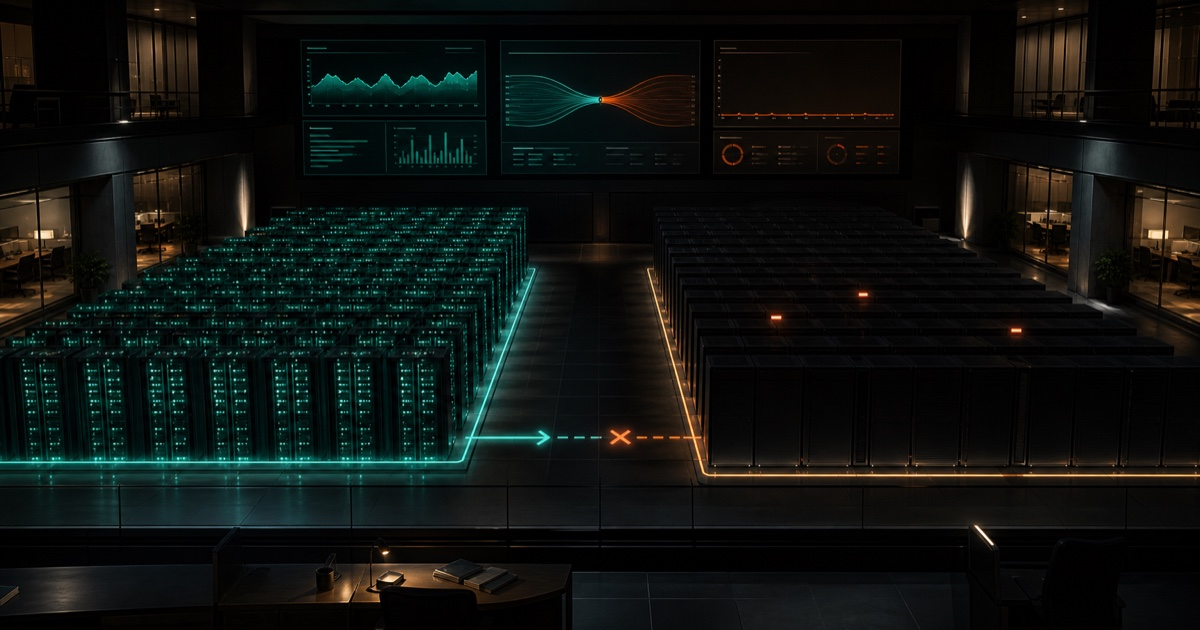
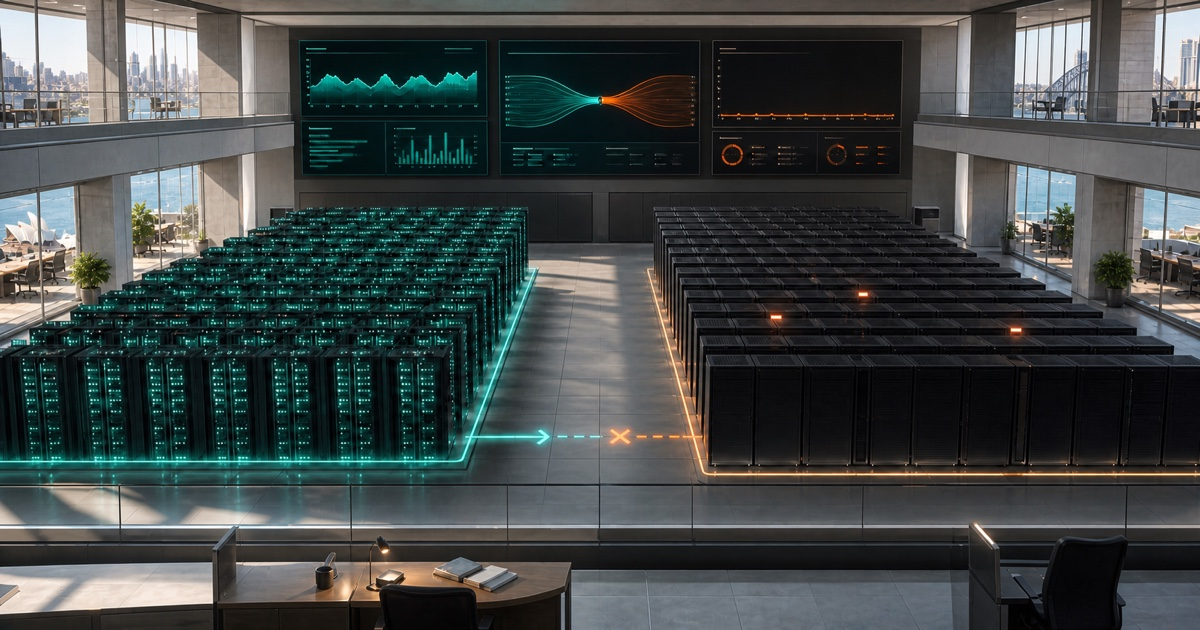
docs(blog): use Sydney time in OpenSearch story

diff --git a/src/articles/at-noon-in-sydney-ten-million-addresses-disappeared/index.md b/src/articles/at-noon-in-sydney-ten-million-addresses-disappeared/index.md
@@ -1,29 +1,29 @@
 ---
 date: '2026-07-16'
-title: 'At 2am UTC, ten million addresses disappeared'
+title: 'At noon in Sydney, ten million addresses disappeared'
 author: 'Tom Howard'
 tags: ['ai coding', 'claude code', 'opensearch', 'software delivery', 'risk management', 'zero outage']
 image: '/img/social/opensearch-upgrade-failed-cluster.jpg'
-imageAlt: 'Two parallel server clusters at night: the production cluster remains lit in teal while the candidate cluster is almost dark, with orange warning indicators.'
+imageAlt: 'Two parallel server clusters in daylight: the production cluster remains lit in teal while the candidate cluster is almost dark, with orange warning indicators.'
 ---
 
-At 2am UTC, the new OpenSearch cluster held about ten million Australian addresses. At the next CloudWatch reading, it held seven.
+At 11am in Sydney, the new OpenSearch cluster held about ten million Australian addresses. At noon, the next CloudWatch reading counted just seven addresses.
 
-At 03:00:59 UTC, the failed logins began. By the time the import was stopped, the audit log contained 184 of them. The cluster had lost almost all its data and stopped recognising the credentials that had loaded it.
+At 1:00:59pm, the failed logins began. By the time the import was stopped, the audit log contained 184 of them. The cluster had lost almost all its data and stopped recognising the credentials that had loaded it.
 
 Claude Code had been supervising the migration for more than a day. The new cluster was supposed to replace an old one running OpenSearch 1.3.20. It was not yet serving customers, so the production API continued answering searches as if nothing had happened.
 
 That was the first thing the migration got right.
 
-![Two parallel server clusters at night: the production cluster remains lit in teal while the candidate cluster is almost dark, with orange warning indicators.](/img/social/opensearch-upgrade-failed-cluster.jpg)
+![Two parallel server clusters in daylight: the production cluster remains lit in teal while the candidate cluster is almost dark, with orange warning indicators.](/img/social/opensearch-upgrade-failed-cluster.jpg)
 
 ## A cluster too old to leave alone
 
-Addressr searches Australia's Geocoded National Address File: about 16.9 million addresses, rebuilt from source and indexed into OpenSearch. Its production cluster worked, but it was still on OpenSearch 1.3.20, a version family already past upstream maintenance.
+Addressr searches Australia's Geocoded National Address File (G&#8209;NAF), a source dataset of about 16.9 million addresses indexed into OpenSearch. Its production cluster worked, but it was still on OpenSearch 1.3.20, a version family already past upstream maintenance.
 
 The destination was OpenSearch 3.5. Reaching it safely meant stopping at 2.19 first. Each step had to preserve search behaviour, keep the API available and leave a working path back.
 
-An in-place upgrade would have put the only production cluster on the operating table. The chosen design was blue/green. The old cluster would continue serving while a new one was provisioned beside it. Both versions would run in CI. The new cluster would be rebuilt from G-NAF, tested directly, fed copies of real searches and compared with production. Only then would the application switch over.
+An in-place upgrade would have put the only production cluster on the operating table. The chosen design was blue/green. The old cluster would continue serving while a new one was provisioned beside it. In CI, the automated test suite would run against both OpenSearch 1.3.20 and 2.19.5. The new cluster would be rebuilt from G&#8209;NAF, tested directly, fed copies of real searches and compared with production. Only then would the application switch over.
 
 The switch itself would be a configuration change. If it failed, the old cluster would still be warm.
 
@@ -51,7 +51,7 @@ The failed attempt left useful evidence behind. The repository still had a Terra
 
 The second attempt began with that change in sequence.
 
-OpenSearch 2.19 would be provisioned quiet. No shadow reads. No customer traffic. It would receive the complete G-NAF dataset, prove its document count and search behaviour, and only then begin warming on copies of production queries.
+OpenSearch 2.19 would be provisioned quiet. No shadow reads. No customer traffic. It would receive the complete G&#8209;NAF dataset, prove its document count and search behaviour, and only then begin warming on copies of production queries.
 
 Before another dollar of AWS capacity was spent, Claude Code changed the loader. If the index settings and mappings were already correct, it would no longer close and reopen the index for every state. If a close genuinely collided with a snapshot, it would retry with backoff. CI kept testing both 1.3.20 and 2.19.5. A CloudWatch dashboard established the old cluster's latency baseline before the new cluster existed.
 
@@ -65,7 +65,7 @@ At first it looked like a capacity problem. Claude Code checked the AWS metrics.
 
 Direct probes returned 401. The same credentials still matched in 1Password, GitHub Actions and Terraform Cloud, but the domain rejected them. The new audit log showed 184 failed logins, yet no event that changed the password.
 
-CloudWatch supplied the missing half of the picture. The searchable-document count had climbed normally to about ten million. At 02:00 UTC it fell to seven. An hour later the authentication failures started.
+CloudWatch supplied the missing half of the picture. At 11am, the searchable-document count stood at about ten million. At noon, it fell to seven. At 1:00:59pm, the authentication failures started.
 
 That established where the authentication fault lived: the fine-grained access control user store inside the managed domain no longer matched any credential plane under the project's control. It did not establish what had changed it. The audit log contained the failed logins, but no initiating event. The index deletion had left no delete event either.
 
